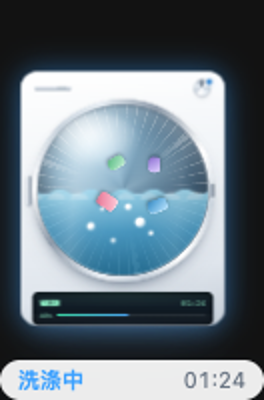
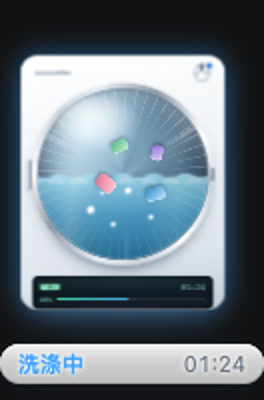
feat: 气泡改液态玻璃 + 离底边 8px (0.5.2)
用户提两条：
1. 气泡贴着底边，看不到下边框和阴影
2. 气泡 UI 改为液态玻璃，参考 iOS 风格

## 离底边

.wrap 加 padding-bottom: 8px。贴死时圆角、下描边、投影全被窗口边界
切掉，看到的是一条被裁掉一半的横条，既不像胶囊也看不出是浮层。
8px 是按投影实际占用算的（2px 偏移 + 6px 模糊）。

机器跟着上移 8px，显示区从 136px 变 128px，132px 宽的窗口装得下。

## 液态玻璃

不是「半透明」四个字能糊过去的，缺一层就退化成塑料色块：

- backdrop-filter: blur(18px) saturate(180%)
  blur 把背后糊开，saturate 让它透亮而不是发灰。只有 blur 是灰的
- ::before 镜面高光，上半道白渐变往下衰减
  这是「玻璃」的识别特征，纯 rgba 做不出来
- inset 阴影顶亮底暗
  光打在玻璃上沿、背面反射在下沿，两条一起才有厚度
- isolation: isolate
  ::before 的 z-index:-1 才能只退到背景之上、文字之下，
  否则一路掉到机器图层下面，高光看不见

底色从 rgba(20,22,28,.90) 降到 .42：那个浓度太高，背后什么都没透出来，
再叠模糊也看不出是玻璃。亮色主题 .92 降到 .72（试过 .58，压在深色
液晶屏上文字直接糊掉）。

## 文字垫底

玻璃是透的，背后颜色不受控。实测气泡压在液晶屏（深色）上时，
深色的 01:24 几乎消失。给三个文字节点加同色 text-shadow 垫底：
深玻璃描深色，白玻璃描白色。用 text-shadow 不用 -webkit-text-stroke，
后者在 11px 上会把字糊成一团。

## 验证

截图逐张看过：气泡压在机器上时能透出舱门弧线、彩色衣物、水的蓝色，
同时文字清楚。亮/暗两个主题分别验过。

测试 69 passed（新增 3 条），三条破坏实验全部能转红。
其中一条第一版测不出来（只查 rgba(0, 0, 0 前缀，改成 rgba(0,0,0,0)
照样通过），补了 alpha 非零断言后能红。

diff --git a/debug/float.html b/debug/float.html
@@ -12,7 +12,9 @@
    */
   :root {
     color-scheme: dark;
-    --bubble: rgba(20, 22, 28, .90);
+    --bubble: rgba(26, 28, 34, .42);
+    /* 文字垫底色：深玻璃用深色垫，正好把浅色字托出来 */
+    --glass-ink-halo: rgba(16, 18, 22, .55);
     --text: #e8eaee;
     --dim: #8b929e;
     --ok: #2ee06a;
@@ -52,6 +54,16 @@
     align-items: center;
     justify-content: flex-end;
     gap: 4px;
+    /*
+     * 气泡不许贴着窗口底边放。
+     *
+     * 贴死时下边框、圆角、投影全被窗口边界切掉 —— 用户看到的是"一条被裁掉
+     * 一半的横条"，既看不出是胶囊，也看不出它是浮在机器上的一层。
+     * 留 8px 让投影有地方落下（阴影本身就占 2px 偏移 + 8px 模糊）。
+     * 机器跟着上移的代价是显示高度少 8px，132px 宽的窗口装得下。
+     */
+    padding-bottom: 8px;
+    box-sizing: border-box;
     /*
      * 尺寸档位切换的过渡。
      *
@@ -217,7 +229,23 @@
     gap: 6px;
     padding: 3px 9px;
     border-radius: 999px;
+    /*
+     * iOS 液态玻璃（Liquid Glass）。
+     *
+     * 苹果那套的做法不是"半透明 + 模糊"这么简单，视觉上分三层：
+     *   1. 厚度 —— backdrop blur+saturate 把背后的东西糊成有颜色的糖浆，
+     *      而不是简单调暗。saturate 越高越"透亮"，低了就成磨砂塑料。
+     *   2. 镜面 —— 上半部一道自上而下衰减的白光，模拟光从玻璃上方打进来。
+     *      这是让人一眼认出"玻璃"而不是"半透明色块"的关键，纯 rgba 做不到。
+     *   3. 咬边 —— 顶部一条更亮的内描边（光落在玻璃上边缘），
+     *      底部一条深色内描边（背面反射），两条一起才有"厚度"。
+     *
+     * 底色用接近无色的深灰而不是原来的 rgba(20,22,28,.90)：那个浓度太高，
+     * 背后什么都没透出来，再叠模糊也看不出是玻璃。
+     */
     background: var(--bubble);
+    backdrop-filter: blur(18px) saturate(180%);
+    -webkit-backdrop-filter: blur(18px) saturate(180%);
     /*
      * 描边 + 投影，让气泡在浅色背景上"浮起来"。
      *
@@ -226,7 +254,15 @@
      * 一行描边定边界，一层投影定层级，比调背景色更管用：
      * 深色背景上描边几乎不可见，正好不抢戏。
      */
-    box-shadow: 0 0 0 1px rgba(255, 255, 255, .16), 0 2px 8px rgba(0, 0, 0, .28);
+    box-shadow:
+      /* 咬边：顶亮底暗，玻璃才有厚度 */
+      inset 0 1px 0 rgba(255, 255, 255, .34),
+      inset 0 -1px 0 rgba(0, 0, 0, .22),
+      /* 一圈极细的外描边，浅色背景上定边界 */
+      0 0 0 1px rgba(255, 255, 255, .18),
+      /* 投影分两层：近的一层紧贴出"离桌面多高"，远的一层散开定层级 */
+      0 2px 6px rgba(0, 0, 0, .28),
+      0 8px 20px rgba(0, 0, 0, .22);
     color: var(--text);
     font-size: 11px;
     line-height: 1.3;
@@ -244,6 +280,9 @@
     width: 132px;
     box-sizing: border-box;
     justify-content: space-between;
+    /* 建独立层叠上下文：::before 的 z-index:-1 只退到气泡背景之上、文字之下，
+       否则会一路掉到机器图层下面，高光就看不见了 */
+    isolation: isolate;
     /* 气泡进出场：极简态要塌缩，所以 max-height/padding 一起过渡 */
     transition: opacity var(--size-dur, 220ms) ease,
                 max-height var(--size-dur, 220ms) var(--size-ease, cubic-bezier(.32, 0, .68, 1)),
@@ -265,6 +304,39 @@
     content: '';
     position: absolute;
     inset: -10px 0;
+  }
+  /*
+   * 镜面高光层：上半部一道白色渐变，往下衰减到透明。
+   *
+   * 必须盖在文字底下（z-index 负 + 气泡自己 isolation），否则状态字被蒙上一层白。
+   * border-radius: inherit 让它跟着胶囊裁剪，不会露出方角。
+   */
+  .bubble::before {
+    content: '';
+    position: absolute;
+    inset: 0;
+    z-index: -1;
+    border-radius: inherit;
+    background: linear-gradient(
+      180deg,
+      rgba(255, 255, 255, .22) 0%,
+      rgba(255, 255, 255, .07) 42%,
+      rgba(255, 255, 255, 0) 100%
+    );
+    pointer-events: none;
+  }
+  /*
+   * 文字描边：玻璃是透的，背后是什么颜色不受控。
+   *
+   * 实测气泡压在液晶屏（深色）上时，深色的计时文字几乎消失。
+   * 给文字加一圈和玻璃同色的极细描边 —— 玻璃白就描白，玻璃黑就描黑，
+   * 等于让文字自带一层"垫底"，无论背后透出什么都能读。
+   * 用 text-shadow 而不是 -webkit-text-stroke：后者在 11px 上会把字糊成一团。
+   */
+  .bubble .st, .bubble .tm, .bubble .dots .more {
+    text-shadow:
+      0 0 2px var(--glass-ink-halo),
+      0 0 3px var(--glass-ink-halo);
   }
   .bubble .st { font-weight: 600; }
   .bubble .st[data-s="idle"], .bubble .st[data-s="off"] { color: var(--dim); }
@@ -571,12 +643,27 @@
    */
   body[data-theme="light"] {
     color-scheme: light;
-    --bubble: rgba(255, 255, 255, .92);
+    --bubble: rgba(255, 255, 255, .72);
+    --glass-ink-halo: rgba(255, 255, 255, .75);
     --text: #1b2430;
     --dim: #6b7684;
   }
   body[data-theme="light"] .bubble {
-    box-shadow: 0 2px 8px rgba(20, 40, 70, .14), 0 0 0 .5px rgba(0, 0, 0, .06);
+    /* 白玻璃：高光换成灰的（白底上白色高光看不出来），底部反射加重一点 */
+    box-shadow:
+      inset 0 1px 0 rgba(255, 255, 255, .90),
+      inset 0 -1px 0 rgba(20, 40, 70, .10),
+      0 0 0 .5px rgba(20, 40, 70, .12),
+      0 2px 6px rgba(20, 40, 70, .12),
+      0 8px 20px rgba(20, 40, 70, .10);
+  }
+  body[data-theme="light"] .bubble::before {
+    background: linear-gradient(
+      180deg,
+      rgba(255, 255, 255, .80) 0%,
+      rgba(255, 255, 255, .30) 45%,
+      rgba(255, 255, 255, 0) 100%
+    );
   }
   body[data-theme="dark"] .washerskin,
   body:not([data-theme="light"]) .washerskin {
